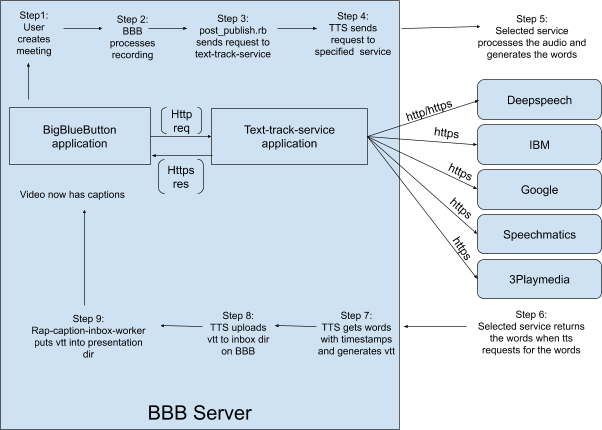
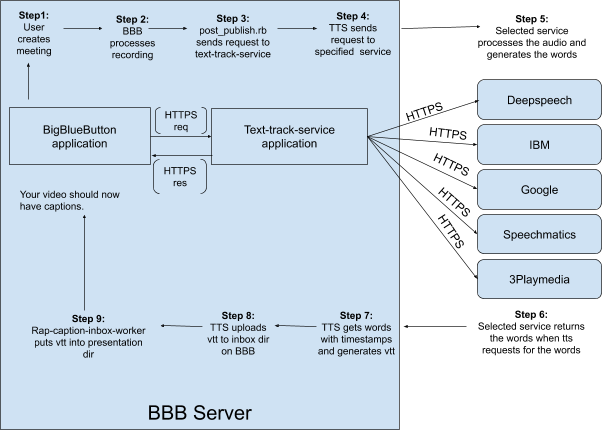
readme changes

diff --git a/README.md b/README.md
@@ -7,25 +7,14 @@ Here is a simple diagram of how it works:-
 ![Text-Track-Service Diagram](diagram-tts.png)
 
 ## Before install
-Set up rap-caption-inbox (skip set up if you have BigBlueButton 2.3 or later just `sudo systemctl start bbb-rap-caption-inbox.service`)
-```
-sudo cp rap-caption-inbox.rb /var/bigbluebutton/captions/inbox/rap-caption-inbox.rb (copy file from repo)
-cd /var/bigbluebutton/captions/inbox
+You should have ssh access to a server with BigBlueButton already installed.
 
-sudo chown root:root /usr/local/bigbluebutton/core/scripts/rap-caption-inbox.rb
-sudo chmod ugo+x /usr/local/bigbluebutton/core/scripts/rap-caption-inbox.rb
-sudo systemctl start bbb-rap-caption-inbox.service
-```
-
-Steps to test
-```
-sudo systemctl status bbb-rap-caption-inbox.service
-```
-
-## Instructions to set up Text-track-service with IBM (just edit credentials.yaml for other services accordingly - look at example.credentials for reference also Step13.)
+## Instructions to set up Text-track-service with IBM
 ---
 
 ### 1. Set up texttrack user on the server
+We need to first set up a separate user for our text-track service.
+
 Steps to set up
 ```
 adduser texttrack
@@ -39,12 +28,14 @@ sudo ls -la /root
 ---
 
 ### 2. Set up docker on the server
+Now we need to set up docker to make maintaining and updating the application easier.
+
 Check if you have docker installed
 ```
 docker --version
 ```
 
-If you don't have docker installed please follow the steps given at https://docs.docker.com/install/linux/docker-ce/ubuntu/ for more information.
+If you don't have docker installed please follow the steps given at [Docker install](https://docs.docker.com/install/linux/docker-ce/ubuntu/) for more information.
 
 Steps to test
 ```
@@ -53,10 +44,10 @@ sudo docker run hello-world
 ---
 
 ### 3. Set up docker-compose on the server
+Docker-compose is again just easier maintenance.
+
 Steps to set up
-```
-Follow instructions at:- https://docs.docker.com/compose/install/
-```
+Follow instructions at:- [Docker-compose install](https://docs.docker.com/compose/install/)
 
 Steps to test
 ```
@@ -65,12 +56,15 @@ docker-compose --version
 ---
 
 ### 3. Add texttrack user to docker
+Adding the texttrack user to docker will allow texttrack to access the files created by docker.
 ```
 sudo usermod -a -G docker texttrack
 ```
 ---
 
 ### 4. Create dir & clone github repo
+We need to install git in order to clone our application from Github.
+
 Steps to set up
 ```
 sudo apt update
@@ -82,6 +76,7 @@ Steps to test
 git --version
 ```
 
+Now that we are set up with what we need, we can now clone the application from the github repo.
 Clone repo
 ```
 cd /var
@@ -95,12 +90,12 @@ cd text-track-service
 
 ### 5. Set up credentials(IBM) & test
 
-The installation instructions are for IBM if you want to use another service visit this link: https://docs.google.com/document/d/e/2PACX-1vQu9o5q1tdf84cPo8kn6vt8QvhyuYJKdhLBVNIeuIHBwpxdRqWu0bmIgHsm8z5dU6YIjoZeDHxwSHu2/pub
+The installation instructions are for IBM if you want to use another service visit this link: [Google Docs services](https://docs.google.com/document/d/e/2PACX-1vQu9o5q1tdf84cPo8kn6vt8QvhyuYJKdhLBVNIeuIHBwpxdRqWu0bmIgHsm8z5dU6YIjoZeDHxwSHu2/pub)
 Follow instructions for setting up the service you want.
 
-steps to set up:
-```
-sign up to IBM at: https://dataplatform.cloud.ibm.com/docs/content/wsj/getting-started/signup-wdp.html
+Steps to set up:
+
+sign up to IBM at: [Ibm sign-up](https://dataplatform.cloud.ibm.com/docs/content/wsj/getting-started/signup-wdp.html)
 After signing in you should be able to see the dashboard.  Click on Watson in the left menu.
 Click on get started (convert audio into text) then you can give service name and/or tag name here. And select the blue create button in the right panel.
 You can give the service name of your choice. Then click create.
@@ -108,13 +103,13 @@ Click on manage in the left panel and you will be able to see your credentials.
 
 Save your apikey & url given.
 
-```
 
-Steps to test (under test_dir there is a test audio_temp.flac to test your credentials with.)
-```
+In order to test your IBM credentials we have a `audio_temp.flac` file for you to test with in `/var/docker/text-track-service/test_dir`
+Steps to test
+
 once you have your IBM api_key & url open terminal and do the following:
 (make sure to replace {apikey} & {url} with your credentials)
-
+```
 cd /var/docker/text-track-service/test_dir
 
 curl -X POST -u "apikey:{apikey}" \
@@ -126,18 +121,22 @@ curl -X POST -u "apikey:{apikey}" \
 ---
 
 ### 6. Add your service credentials in credentials.yaml file
+Now that you have signed up to a service we need to tie that service with the application using your account. After you copy example-credentials as credentials it already has placeholders for all services based on what
+information is needed. Edit your information in and make sure you have all information need by that service.
 
 Steps to set up
 ```
 cp example-credentials.yaml credentials.yaml
-Now edit your information in credentials.yaml (you can refer example-credentials.yaml file in /var/docker/text-track-service)
+```
+Now edit your information in `credentials.yaml` (you can refer example-credentials.yaml file in `/var/docker/text-track-service`)
 
 (extra step for google account)
-create auth/google_auth_file.json and add file name to credentials.yaml (make sure google auth file owner is texttrack)
-```
+create `auth/google_auth_file.json` and add file name to `credentials.yaml` (make sure google auth file owner is texttrack)
 ---
 
 ### 7. Set up systemd files
+Now we want to set up the application to start, stop and restart by itself, so we are going to set up some systemd files to do that for us.
+
 Steps to set up
 ```
 cd /var/docker/text-track-service/systemd
@@ -151,11 +150,16 @@ sudo systemctl start tts-docker
 
 Steps to test
 ```
-sudo journalctl -u tts-docker -f (see tailed logs) (if you are doing it very first time, you will get an error because there is no database. We will set it up in the next step.)
+sudo journalctl -u tts-docker -f (see tailed logs)
 ```
+
+Expected Result:
+You should get the following result: `ActiveRecord::NoDatabaseError: FATAL:  database "myapp_development" does not exist`
 ---
 
 ### 8. Open new terminal to set up new db
+Now we need to fix the error we got for no database. In a new terminal launch the commands below to set up your database.
+
 Steps to set up
 ```
 cd /var/docker/text-track-service
@@ -168,29 +172,87 @@ sudo docker-compose exec --user "$(id -u):$(id -g)" website rails db:create
 sudo chmod -R a+rX tmp/*
 sudo chmod -R a+rX *
 sudo docker-compose exec --user "$(id -u):$(id -g)" website rails db:migrate
+```
 
-
+Add the following line to the end of the visudo file:
+```
 sudo visudo
-* Add the following line to the end of the file:
 texttrack ALL = NOPASSWD: /var/docker/text-track-service/deploy.sh
-* save and close the file
-
+```
+Save and close the file
+```
+cd /var/docker/text-track-service
 ./deploy.sh
 ```
 
 Steps to test
 ```
-sudo journalctl -u tts-docker -f (You should no longer get a no db error)
+sudo journalctl -u tts-docker -f 
+```
+(You should no longer get a no db error)
+
+Expected Result:
+
+After creating databse now you should see lines that say your database has been created similar to: 
+```
+ (200.3ms)  CREATE DATABASE "myapp_development" ENCODING = 'unicode'
+  ↳ bin/rails:11
+Created database 'myapp_development'
+   (103.8ms)  CREATE DATABASE "myapp_test" ENCODING = 'unicode'
+  ↳ bin/rails:11
+Created database 'myapp_test'
+```
+
+After migrating database you should see output similar to:
+```
+(21.9ms)  CREATE TABLE "schema_migrations" ("version" character varying NOT NULL PRIMARY KEY)
+  ↳ bin/rails:11
+   (11.6ms)  CREATE TABLE "ar_internal_metadata" ("key" character varying NOT NULL PRIMARY KEY, "value" character varying, "created_at" timestamp NOT NULL, "updated_at" timestamp NOT NULL)
+  ↳ bin/rails:11
+   (0.5ms)  SELECT pg_try_advisory_lock(7864839756650184315)
+  ↳ bin/rails:11
+   (0.7ms)  SELECT "schema_migrations"."version" FROM "schema_migrations" ORDER BY "schema_migrations"."version" ASC
+  ↳ bin/rails:11
+Migrating to CreateCaptions (20190709150627)
+   (0.2ms)  BEGIN
+  ↳ bin/rails:11
+== 20190709150627 CreateCaptions: migrating ===================================
+-- create_table(:captions)
+   (11.5ms)  CREATE TABLE "captions" ("id" bigserial primary key, "record_id" character varying, "service" character varying, "status" character varying, "caption_locale" character varying, "error" character varying, "bbb_url" character varying, "bbb_checksum" character varying, "kind" character varying, "label" character varying, "processtime" character varying, "start_time" character varying, "end_time" character varying, "created_at" timestamp NOT NULL, "updated_at" timestamp NOT NULL)
+  ↳ db/migrate/20190709150627_create_captions.rb:6
+   -> 0.0127s
+== 20190709150627 CreateCaptions: migrated (0.0127s) ==========================
+
+  ActiveRecord::SchemaMigration Create (0.4ms)  INSERT INTO "schema_migrations" ("version") VALUES ($1) RETURNING "version"  [["version", "20190709150627"]]
+  ↳ bin/rails:11
+   (1.9ms)  COMMIT
+  ↳ bin/rails:11
+  ActiveRecord::InternalMetadata Load (0.5ms)  SELECT  "ar_internal_metadata".* FROM "ar_internal_metadata" WHERE "ar_internal_metadata"."key" = $1 LIMIT $2  [["key", "environment"], ["LIMIT", 1]]
+  ↳ bin/rails:11
+   (0.1ms)  BEGIN
+  ↳ bin/rails:11
+  ActiveRecord::InternalMetadata Create (0.4ms)  INSERT INTO "ar_internal_metadata" ("key", "value", "created_at", "updated_at") VALUES ($1, $2, $3, $4) RETURNING "key"  [["key", "environment"], ["value", "development"], ["created_at", "2020-01-15 15:39:41.277333"], ["updated_at", "2020-01-15 15:39:41.277333"]]
+  ↳ bin/rails:11
+   (1.1ms)  COMMIT
+  ↳ bin/rails:11
+   (0.4ms)  SELECT pg_advisory_unlock(7864839756650184315)
+  ↳ bin/rails:11
+   (0.3ms)  SELECT "schema_migrations"."version" FROM "schema_migrations" ORDER BY "schema_migrations"."version" ASC
+  ↳ bin/rails:11
 ```
 ---
 
 ### 9. Add info to bigbluebutton.yml file on bbb server
+The application needs some information about the BigBlueButton server to put the captions back onto the bbb server. Update the `bigbluebutton.yml` file with the needed information.
+
 ```
 cd /usr/local/bigbluebutton/core/scripts/
+```
 
-To find your secret: bbb-conf -secret (shared secret)
+To find your secret: `bbb-conf -secret` (shared secret)
 Set up tts-secret in credentials.yaml and then enter that in /usr/local/bigbluebutton/core/scripts/bigbluebutton.yml
 
+```
 sudo vim bigbluebutton.yml
 
 presentation_dir: /var/bigbluebutton/published/presentation
@@ -202,17 +264,28 @@ tts_shared_secret: {tts-secret}
 ---
 
 ### 10. Edit post_publish.rb & start rap-caption-inbox worker
+Now finally we need the bbb server to send the caption request to text-track application. This is done by the post publish file, we already have one set up for you. Copy it onto your server and your requests can now be sent to the text-track application from bbb server.
+
+
 ```
 cd /usr/local/bigbluebutton/core/scripts/post_publish/
+```
 
 Make sure you have ffmpeg installed:
+```
 sudo apt-get install ffmpeg
+```
 
+Make sure you have the following gems installed:
+```
+cd /usr/local/bigbluebutton/core/scripts/post_publish/
 sudo gem install rest-client
 sudo gem install speech_to_text
 sudo gem install jwt
+```
 
 (Replace your post_publish.rb with the one in /var/docker/text-track-service)
+```
 sudo cp /var/docker/text-track-service/post_publish.rb root@your_server:/usr/local/bigbluebutton/core/scripts/post_publish  (use if bbb and text-track-service are running on different server)
 sudo cp /var/docker/text-track-service/post_publish.rb /usr/local/bigbluebutton/core/scripts/post_publish  (use if bbb and text-track-service are running on same server)
 ```
@@ -233,62 +306,73 @@ eg. http://localhost:4000/caption/#{meeting_id}/en-US/threeplaymedia
 eg. http://localhost:4000/caption/#{meeting_id}/en-US/deepspeech or http://localhost:4000/caption/#{meeting_id}/en-US/ (deepspeech is default)
 ```
 
-Text-Track-Service only drops the files in the inbox folder at /var/bigbluebutton/captions/inbox
-Now the rap-caption-inbox.rb should move it to the presentation dir(/var/bigbluebutton/published/presentation/<record-id>) to start it run the foll command:
+Also we need to set up rap caption inbox worker as the application only drops the captions in the inbox folder. The rap caption inbox worker will be the one to move them from inbox to the presentation dir so your video can finally have captions.
+
+Text-Track-Service only drops the files in the inbox folder at `/var/bigbluebutton/captions/inbox`
+Now the rap-caption-inbox.rb should move it to the presentation dir(`/var/bigbluebutton/published/presentation/<record-id>`) to start it run the foll command:
 ```
+cd /var/docker/text-track-service
+sudo cp rap-caption-inbox.rb /var/bigbluebutton/captions/inbox/rap-caption-inbox.rb (copy file from repo)
+cd /var/bigbluebutton/captions/inbox
+
+sudo chown root:root /usr/local/bigbluebutton/core/scripts/rap-caption-inbox.rb
+sudo chmod ugo+x /usr/local/bigbluebutton/core/scripts/rap-caption-inbox.rb
 sudo systemctl start bbb-rap-caption-inbox.service
-sudo systemctl status bbb-rap-caption-inbox.service (Status should be running)
 ```
 ---
 
 ### 11. Record a meeting and check for vtt
-Finally make a recording/meeting on your server
-Look at the logs to make sure it processes successfully(sudo journalctl -u tts-docker -f)
-Check the presentation folder of the record_id to see if a vtt file was generated. This can be found at (/var/bigbluebutton/published/presentation/<record_id>)
+Finally make a recording/meeting on your server.
+Look at the logs to make sure it processes successfully(`sudo journalctl -u tts-docker -f`)
+Check the presentation folder of the record_id to see if a vtt file was generated. This can be found at (`/var/bigbluebutton/published/presentation/<record_id>`)
 If there is a vtt file you have successfully transcribed your first meeting using IBM.
+
+Your video should now have captions.
 ---
 
-### 12. Troubleshooting
+## Troubleshooting
 If you followed Step 7 your should be able to see tailed logs with the following command
 ```
 sudo journalctl -u tts-docker -f
-
-fix any errors shown and then re-deploy by running deploy.sh in the root folder
 ```
+fix any errors shown and then re-deploy by running `deploy.sh` in the root folder
 
-* If the logs do not show any errors but you are missing the vtt file in the presentation folder check the inbox folder at /var/bigbluebutton/captions/inbox/ (You should see a json and txt file.)
+
+* If the logs do not show any errors but you are missing the vtt file in the presentation folder check the inbox folder at `/var/bigbluebutton/captions/inbox/` (You should see a json and txt file.)
 * This means that the text track has done its job and the rap caption worker is not moving the files to the right location.
-* To fix this you can copy the rap-caption-inbox.rb file from the repo to your bbb server at /usr/local/bigbluebutton/core/scripts/ & make sure the owner is root.
-* Last step is make sure the rap-caption-work.rb has correct execute permissions if not just run the following command:
+* To fix this you can copy the `rap-caption-inbox.rb` file from the repo to your bbb server at `/usr/local/bigbluebutton/core/scripts/` & make sure the owner is root.
+* Last step is make sure the `rap-caption-work.rb` has correct execute permissions if not just run the following command:
 ```
 sudo chmod ugo+x /usr/local/bigbluebutton/core/scripts/rap-caption-inbox.rb
 sudo systemctl start bbb-rap-caption-inbox.service
 ```
 ---
 
-### 13. Other services
-Here is a link to a google docs for signing up to the services: https://docs.google.com/document/d/e/2PACX-1vQu9o5q1tdf84cPo8kn6vt8QvhyuYJKdhLBVNIeuIHBwpxdRqWu0bmIgHsm8z5dU6YIjoZeDHxwSHu2/pub
-To use other services you need to edit credentials.yaml file with the details required
-Reference example-credentials.yaml for needed information
-Finally edit post_publish.rb to use the new selected service as discussed in Step 10.
+## Other services
+Here is a link to a google docs for signing up to the services: [Google Docs services](https://docs.google.com/document/d/e/2PACX-1vQu9o5q1tdf84cPo8kn6vt8QvhyuYJKdhLBVNIeuIHBwpxdRqWu0bmIgHsm8z5dU6YIjoZeDHxwSHu2/pub)
+To use other services you need to edit `credentials.yaml` file with the details required
+Reference `example-credentials.yaml` for needed information
+Finally edit `post_publish.rb` to use the new selected service as discussed in Step 10.
 ```
 sudo vim /usr/local/bigbluebutton/core/scripts/post_publish/post_publish.rb
 On line 113 add ibm or the service you want to (http://localhost:4000/caption/#{meeting_id}/en-US/) to the end of the line eg. http://localhost:4000/caption/#{meeting_id}/en-US/ibm
 save & exit
 ```
-To set up your own deepspeech server follow instructions at: https://github.com/bigbluebutton/deepspeech-web
+To set up your own deepspeech server follow instructions at: [Github deepspeech-web](https://github.com/bigbluebutton/deepspeech-web)
 
-### 14. Install & use api commands for information
+## Install & use api commands for information
+We can now set up api commands that will give us all the information about the recordings processed by the application.
 
 Install api commands
 ```
 cd /var/docker/text-track-service/commands
 ./config.sh (run api config file)
+```
 you can now use the commands from anywhere in the terminal as long as you are ssh into the server
-```
 
-Api usage
-```
+
+Api usage:
+
 | Command                 | Result                                                          |
 | ----------------------- | --------------------------------------------------------------- |
 | tts-all                 | shows list of all record-ids sent to the text-track-service     |
@@ -297,4 +381,4 @@ Api usage
 | tts-record <record_id>  | get data for specific record_id                                 |
 | tts-delete <record_id>  | delete data about a specific recording from text-track-service  |
 | tts-delete-all          | delete all data about recordings from text-track-service        |
-```
+
